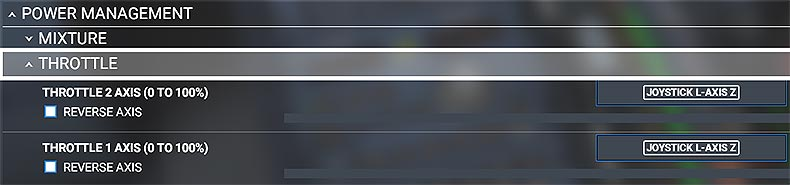
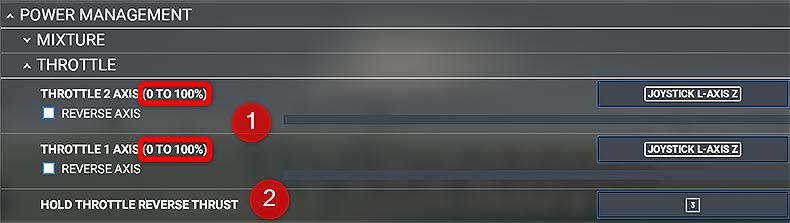
Added reverser activation via button

diff --git a/docs/start/throttle-calibration.md b/docs/start/throttle-calibration.md
@@ -188,9 +188,15 @@ Same as described above remove all sensitivity settings and make it linear. Be a
 
 #### Throttle Mapping
 
-Instead of `Throttle Axis 1/2` throttles without **Reverser on Axis** often need the `Throttle Axis 1/2 (0 TO 100%)` setting. Some need the `Reverse Axis` box checked, some not. Find the right setting for your throttle by trial and error.
+Instead of `Throttle Axis 1/2` throttles without **Reverser on Axis** often need the `Throttle Axis 1/2 (0 TO 100%)` (see **1** in image below) setting. Some need the `Reverse Axis` box checked, some not. Find the right setting for your throttle by trial and error.
 
 ![MSFS ThrottleAxis (0 TO 100%)](../assets/throttle-calibration/MSFS-ThrottleAxis-0to100.jpg "MSFS ThrottleAxis (0 TO 100%)"){loading=lazy}
+
+Also, as these throttles do not have reversers on their axis we can map the reverser activation onto a button on the throttle or key on the keyboard (see **2** below). In the example below we used the button "3" for this.
+
+![TWCS-Reverser-Button](../assets/throttle-calibration/TWCS-Reverser-Button.jpg "TWCS-Reverser-Button"){loading=lazy}
+
+Hold this button and push the throttle forward to increase reverse thrust.
 
 ### Step 2: Calibrating the TCA throttle detents in the FlyByWire flyPad (EFB)
 
